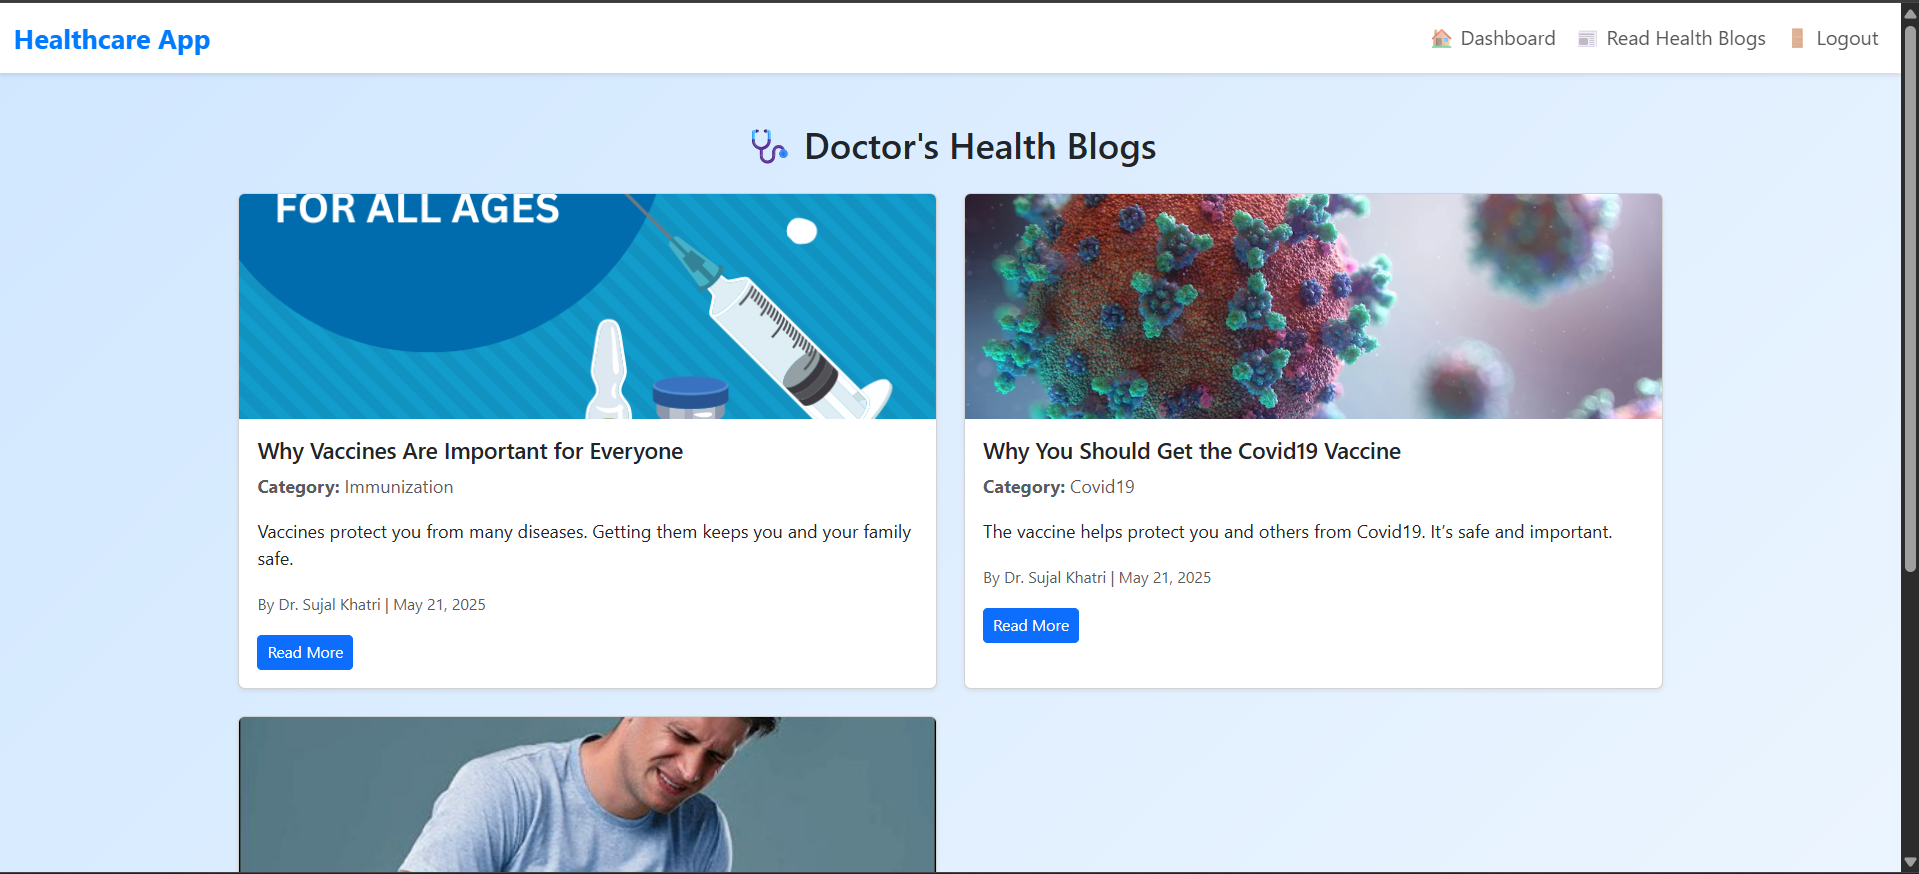
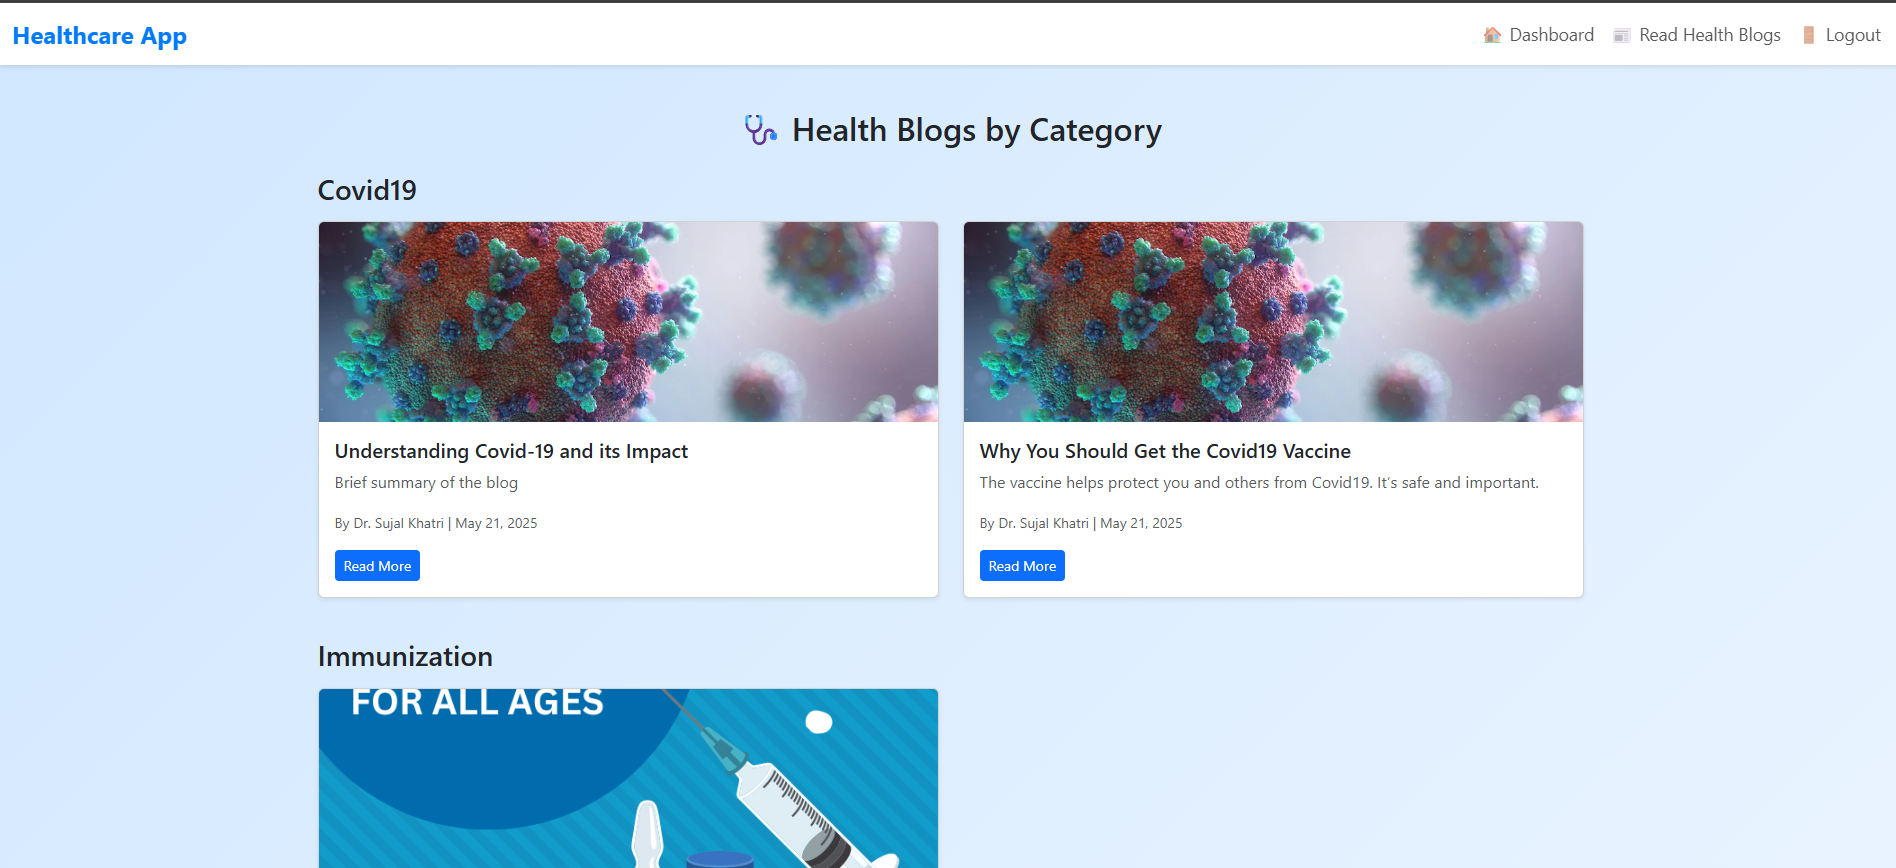
Add new feature or update code

diff --git a/accounts/templates/patient_blog_list.html b/accounts/templates/patient_blog_list.html
@@ -4,29 +4,31 @@
 
 {% block content %}
 <div class="container mt-4">
-    <h2 class="text-center mb-4">🩺 Doctor's Health Blogs</h2>
+    <h2 class="text-center mb-4">🩺 Health Blogs by Category</h2>
 
-    {% if blogs %}
-        <div class="row">
-            {% for blog in blogs %}
-                <div class="col-md-6 mb-4">
-                    <div class="card h-100 shadow-sm">
-                        {% if blog.image %}
-                            <img src="{{ blog.image.url }}" class="card-img-top" alt="Blog Image" style="height: 200px; object-fit: cover;">
-                        {% endif %}
-                        <div class="card-body">
-                            <h5 class="card-title">{{ blog.title }}</h5>
-                            <p class="card-text text-muted"><strong>Category:</strong> {{ blog.get_category_display }}</p>
-                            <p class="card-text">{{ blog.summary|truncatechars:100 }}</p>
-                            <p class="card-text">
-                                <small class="text-muted">By Dr. {{ blog.author.first_name }} {{ blog.author.last_name }} | {{ blog.created_at|date:"M d, Y" }}</small>
-                            </p>
-                            <a href="{% url 'patient_blog_detail' blog.id %}" class="btn btn-primary btn-sm">Read More</a>
+    {% if blogs_by_category %}
+        {% for category, blogs in blogs_by_category.items %}
+            <h3 class="mb-3">{{ category }}</h3>
+            <div class="row mb-4">
+                {% for blog in blogs %}
+                    <div class="col-md-6 mb-3">
+                        <div class="card h-100 shadow-sm">
+                            {% if blog.image %}
+                                <img src="{{ blog.image.url }}" class="card-img-top" alt="Blog Image" style="height: 200px; object-fit: cover;">
+                            {% endif %}
+                            <div class="card-body">
+                                <h5 class="card-title">{{ blog.title }}</h5>
+                                <p class="card-text text-muted">{{ blog.summary|truncatewords:15 }}</p>
+                                <p class="card-text">
+                                    <small class="text-muted">By Dr. {{ blog.author.first_name }} {{ blog.author.last_name }} | {{ blog.created_at|date:"M d, Y" }}</small>
+                                </p>
+                                <a href="{% url 'patient_blog_detail' blog.id %}" class="btn btn-primary btn-sm">Read More</a>
+                            </div>
                         </div>
                     </div>
-                </div>
-            {% endfor %}
-        </div>
+                {% endfor %}
+            </div>
+        {% endfor %}
     {% else %}
         <p class="text-center text-muted">No blogs available right now.</p>
     {% endif %}

diff --git a/accounts/templates/base.html b/accounts/templates/base.html
@@ -56,7 +56,7 @@
             <div class="collapse navbar-collapse" id="navbarNav">
                 <div class="navbar-nav ms-auto">
                     {% if user.is_authenticated %}
-                        {% if user.user_type == 'patient' %}
+                        {% if user.user_type == 'patient' %}                        
                             <a href="{% url 'patient_dashboard' %}" class="nav-link">🏠 Dashboard</a>
                             <a href="{% url 'patient_blog_list' %}" class="nav-link">📰 Read Health Blogs</a>
                         {% elif user.user_type == 'doctor' %}

diff --git a/accounts/views.py b/accounts/views.py
@@ -4,7 +4,6 @@ from django.contrib import messages
 from .models import CustomUser, BlogPost
 from django import forms
 from django.contrib.auth.decorators import login_required
-
 from django.shortcuts import get_object_or_404
 
 
@@ -110,13 +109,22 @@ def doctor_blog_create(request):
         form = BlogPostForm()
     return render(request, 'doctor_blog_create.html', {'form': form})
 
+from collections import defaultdict
+
 @login_required
 def patient_blog_list(request):
     if request.user.user_type != 'patient':
         return redirect('login')
 
+    # Filter non-draft posts, order by created date desc
     blogs = BlogPost.objects.filter(is_draft=False).order_by('-created_at')
-    return render(request, 'patient_blog_list.html', {'blogs': blogs})
+
+    # Group blogs by category into a dictionary
+    blogs_by_category = defaultdict(list)
+    for blog in blogs:
+        blogs_by_category[blog.get_category_display()].append(blog)
+
+    return render(request, 'patient_blog_list.html', {'blogs_by_category': dict(blogs_by_category)})
 
 @login_required
 def patient_blog_detail(request, blog_id):

diff --git a/accounts/models.py b/accounts/models.py
@@ -28,7 +28,6 @@ class BlogPost(models.Model):
         ('covid19', 'Covid19'),
         ('immunization', 'Immunization'),
     ]
-
     author = models.ForeignKey(settings.AUTH_USER_MODEL, on_delete=models.CASCADE)
     title = models.CharField(max_length=200)
     image = models.ImageField(upload_to='blog_images/', blank=True, null=True)
